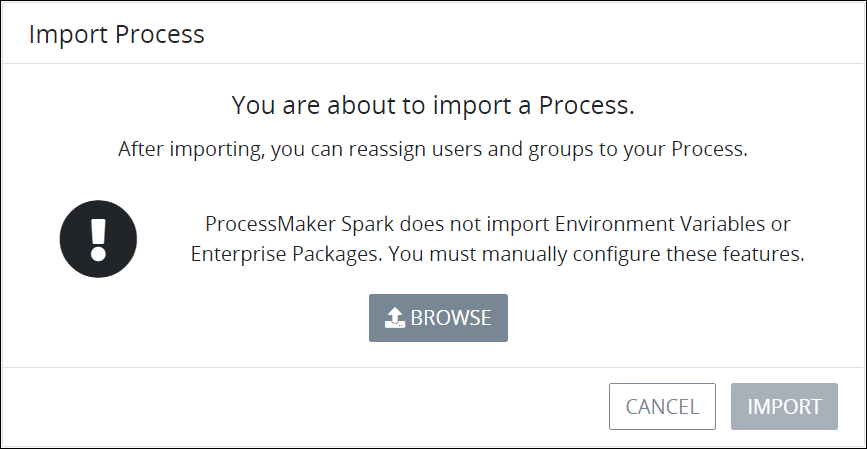
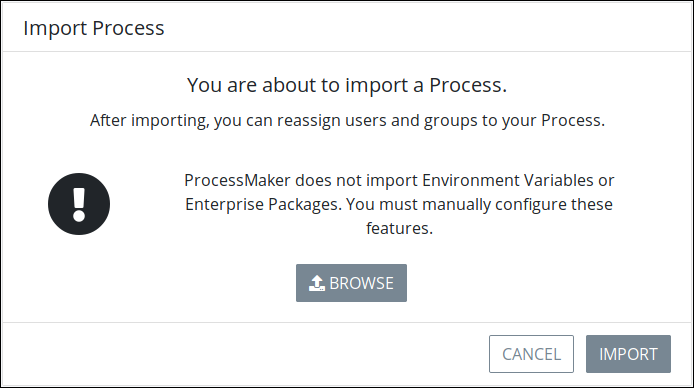
GitBook: [processmaker] 39 pages and one asset modified

diff --git a/designing-processes/process-design/model-your-process/add-and-configure-pool-and-lane-elements.md b/designing-processes/process-design/model-your-process/add-and-configure-pool-and-lane-elements.md
@@ -15,8 +15,8 @@ See [Process Modeling Element Descriptions](process-modeling-element-description
 
 Your ProcessMaker user account or group membership must have the following permissions to add a Pool element to the Process model unless your user account has the **Make this user a Super Admin** setting selected:
 
-* Processes: View Processes
 * Processes: Edit Processes
+* Processes: View Processes
 
 See the [Process](../../../processmaker-administration/permission-descriptions-for-users-and-groups.md#processes) permissions or ask your ProcessMaker Administrator for assistance.
 {% endhint %}
@@ -49,8 +49,8 @@ If you accidentally delete a Pool element with other elements you want to keep, 
 {% hint style="info" %}
 Your ProcessMaker user account or group membership must have the following permissions to resize a Pool element to the Process model unless your user account has the **Make this user a Super Admin** setting selected:
 
-* Processes: View Processes
 * Processes: Edit Processes
+* Processes: View Processes
 
 See the [Process](../../../processmaker-administration/permission-descriptions-for-users-and-groups.md#processes) permissions or ask your ProcessMaker Administrator for assistance.
 {% endhint %}
@@ -69,8 +69,8 @@ Follow these steps to resize a Pool element:
 {% hint style="info" %}
 Your ProcessMaker user account or group membership must have the following permissions to configure a Pool element unless your user account has the **Make this user a Super Admin** setting selected:
 
-* Processes: View Processes
 * Processes: Edit Processes
+* Processes: View Processes
 
 See the [Process](../../../processmaker-administration/permission-descriptions-for-users-and-groups.md#processes) permissions or ask your ProcessMaker Administrator for assistance.
 {% endhint %}
@@ -123,8 +123,8 @@ See [Process Modeling Element Descriptions](process-modeling-element-description
 
 Your ProcessMaker user account or group membership must have the following permissions to add a Lane element to a Pool element unless your user account has the **Make this user a Super Admin** setting selected:
 
-* Processes: View Processes
 * Processes: Edit Processes
+* Processes: View Processes
 
 See the [Process](../../../processmaker-administration/permission-descriptions-for-users-and-groups.md#processes) permissions or ask your ProcessMaker Administrator for assistance.
 {% endhint %}
@@ -147,8 +147,8 @@ Follow these steps to add a Lane element to a Pool element:
 {% hint style="info" %}
 Your ProcessMaker user account or group membership must have the following permissions to resize a Lane element to the Process model unless your user account has the **Make this user a Super Admin** setting selected:
 
-* Processes: View Processes
 * Processes: Edit Processes
+* Processes: View Processes
 
 See the [Process](../../../processmaker-administration/permission-descriptions-for-users-and-groups.md#processes) permissions or ask your ProcessMaker Administrator for assistance.
 {% endhint %}
@@ -167,8 +167,8 @@ Follow these steps to resize a Lane element:
 {% hint style="info" %}
 Your ProcessMaker user account or group membership must have the following permissions to configure a Lane element unless your user account has the **Make this user a Super Admin** setting selected:
 
-* Processes: View Processes
 * Processes: Edit Processes
+* Processes: View Processes
 
 See the [Process](../../../processmaker-administration/permission-descriptions-for-users-and-groups.md#processes) permissions or ask your ProcessMaker Administrator for assistance.
 {% endhint %}

diff --git a/designing-processes/process-design/model-your-process/add-and-configure-text-annotation-elements.md b/designing-processes/process-design/model-your-process/add-and-configure-text-annotation-elements.md
@@ -17,8 +17,8 @@ See [Process Modeling Element Descriptions](process-modeling-element-description
 
 Your ProcessMaker user account or group membership must have the following permissions to add a Text Annotation element to the Process model unless your user account has the **Make this user a Super Admin** setting selected:
 
-* Processes: View Processes
 * Processes: Edit Processes
+* Processes: View Processes
 
 See the [Process](../../../processmaker-administration/permission-descriptions-for-users-and-groups.md#processes) permissions or ask your ProcessMaker Administrator for assistance.
 {% endhint %}
@@ -46,8 +46,8 @@ Moving a Text Annotation element has the following limitations in regards to the
 {% hint style="info" %}
 Your ProcessMaker user account or group membership must have the following permissions to configure a Text Annotation element unless your user account has the **Make this user a Super Admin** setting selected:
 
-* Processes: View Processes
 * Processes: Edit Processes
+* Processes: View Processes
 
 See the [Process](../../../processmaker-administration/permission-descriptions-for-users-and-groups.md#processes) permissions or ask your ProcessMaker Administrator for assistance.
 {% endhint %}
@@ -100,8 +100,8 @@ See [Process Modeling Element Descriptions](process-modeling-element-description
 
 Your ProcessMaker user account or group membership must have the following permissions to add an Association element to the Process model unless your user account has the **Make this user a Super Admin** setting selected:
 
-* Processes: View Processes
 * Processes: Edit Processes
+* Processes: View Processes
 
 See the [Process](../../../processmaker-administration/permission-descriptions-for-users-and-groups.md#processes) permissions or ask your ProcessMaker Administrator for assistance.
 {% endhint %}
@@ -127,8 +127,8 @@ Follow these steps to add an Association element to the Process model:
 {% hint style="info" %}
 Your ProcessMaker user account or group membership must have the following permissions to configure an Association element unless your user account has the **Make this user a Super Admin** setting selected:
 
-* Processes: View Processes
 * Processes: Edit Processes
+* Processes: View Processes
 
 See the [Process](../../../processmaker-administration/permission-descriptions-for-users-and-groups.md#processes) permissions or ask your ProcessMaker Administrator for assistance.
 {% endhint %}

diff --git a/designing-processes/viewing-processes/view-the-list-of-processes/import-a-bpmn-compliant-process.md b/designing-processes/viewing-processes/view-the-list-of-processes/import-a-bpmn-compliant-process.md
@@ -35,7 +35,7 @@ See the ProcessMaker [Processes](../../../processmaker-administration/permission
 Follow these steps to import a validated ProcessMaker version 4 Process:
 
 1. [View your active Processes.](./#view-your-processes) The **Processes** tab displays.
-2. Click the **Import** button. The following message displays: **You are about to import a Process. User assignments and sensitive environment variables will not be imported.**  
+2. Click the **Import** button. The following message displays: **You are about to import a Process. After importing, you can reassign users and groups to your process.**
 
    ![](../../../.gitbook/assets/import-process-message-processes.png)
 
@@ -68,7 +68,7 @@ Follow these steps to import a validated ProcessMaker version 4 Process:
    * **Assign which ProcessMaker user\(s\) and/or group\(s\) can edit Request data**
 
      Assign which ProcessMaker user\(s\) or group\(s\) have permission to [edit Request data](../../../using-processmaker/requests/request-details/summary-for-completed-requests.md#editable-request-data) from this Process. By editing Request data, these users and group members can adjust the data that Request participants have submitted during a Request. If no users or groups are selected, no one can edit Request data from this Process. Type into the **Assign Edit Data** field to filter ProcessMaker users and/or groups that display in that field's drop-down menu. To remove a ProcessMaker user or group that is currently selected, click the![](../../../.gitbook/assets/remove-group-user-admin.png)icon for that selection or press `Enter` when the drop-down is visible.
-6. Click **Save**. The **Processes** page displays the imported Process with the same name as the original ProcessMaker Process except with a number "2" suffix.  
+6. Click **Save**. The **Processes** page displays the imported Process. If the process already exist with the same name, it is renamed with a number "2" suffix.  
 
    ![](../../../.gitbook/assets/imported-process-with-name-of-source-process-processes.png)
 

diff --git a/designing-processes/process-design/model-your-process/add-and-configure-script-task-elements.md b/designing-processes/process-design/model-your-process/add-and-configure-script-task-elements.md
@@ -15,8 +15,8 @@ See [Process Modeling Element Descriptions](process-modeling-element-description
 
 Your ProcessMaker user account or group membership must have the following permissions to add a Script Task element to the Process model unless your user account has the **Make this user a Super Admin** setting selected:
 
-* Processes: View Processes
 * Processes: Edit Processes
+* Processes: View Processes
 
 See the [Process](../../../processmaker-administration/permission-descriptions-for-users-and-groups.md#processes) permissions or ask your ProcessMaker Administrator for assistance.
 {% endhint %}
@@ -55,8 +55,8 @@ Moving a Script Task element has the following limitations in regards to the fol
 {% hint style="info" %}
 Your ProcessMaker user account or group membership must have the following permissions to configure a Script Task element unless your user account has the **Make this user a Super Admin** setting selected:
 
-* Processes: View Processes
 * Processes: Edit Processes
+* Processes: View Processes
 
 See the [Process](../../../processmaker-administration/permission-descriptions-for-users-and-groups.md#processes) permissions or ask your ProcessMaker Administrator for assistance.
 {% endhint %}
@@ -169,8 +169,8 @@ The Vocabularies package is not available in the ProcessMaker open-source editio
 
 Your ProcessMaker user account or group membership must have the following permissions to set which ProcessMaker user or group can start a Request for a Process unless your user account has the **Make this user a Super Admin** setting selected:
 
-* Processes: View Processes
 * Processes: Edit Processes
+* Processes: View Processes
 
 See the [Process](../../../processmaker-administration/permission-descriptions-for-users-and-groups.md#processes) permissions or ask your ProcessMaker Administrator for assistance.
 {% endhint %}

diff --git a/designing-processes/process-design/model-your-process/add-and-configure-sub-process-elements.md b/designing-processes/process-design/model-your-process/add-and-configure-sub-process-elements.md
@@ -15,8 +15,8 @@ See [Process Modeling Element Descriptions](process-modeling-element-description
 
 Your ProcessMaker user account or group membership must have the following permissions to add a Sub Process element to the Process model unless your user account has the **Make this user a Super Admin** setting selected:
 
-* Processes: View Processes
 * Processes: Edit Processes
+* Processes: View Processes
 
 See the [Process](../../../processmaker-administration/permission-descriptions-for-users-and-groups.md#processes) permissions or ask your ProcessMaker Administrator for assistance.
 {% endhint %}
@@ -56,8 +56,8 @@ Moving a Sub Process element has the following limitations in regards to the fol
 {% hint style="info" %}
 Your ProcessMaker user account or group membership must have the following permissions to configure a Sub Process element unless your user account has the **Make this user a Super Admin** setting selected:
 
-* Processes: View Processes
 * Processes: Edit Processes
+* Processes: View Processes
 
 See the [Process](../../../processmaker-administration/permission-descriptions-for-users-and-groups.md#processes) permissions or ask your ProcessMaker Administrator for assistance.
 {% endhint %}
@@ -119,8 +119,8 @@ The Vocabularies package is not available in the ProcessMaker open-source editio
 
 Your ProcessMaker user account or group membership must have the following permissions to set which ProcessMaker user or group can start a Request for a Process unless your user account has the **Make this user a Super Admin** setting selected:
 
-* Processes: View Processes
 * Processes: Edit Processes
+* Processes: View Processes
 
 See the [Process](../../../processmaker-administration/permission-descriptions-for-users-and-groups.md#processes) permissions or ask your ProcessMaker Administrator for assistance.
 {% endhint %}

diff --git a/designing-processes/process-design/model-your-process/add-and-configure-intermediate-message-catch-event-elements.md b/designing-processes/process-design/model-your-process/add-and-configure-intermediate-message-catch-event-elements.md
@@ -17,8 +17,8 @@ See [Process Modeling Element Descriptions](process-modeling-element-description
 
 Your ProcessMaker user account or group membership must have the following permissions to add an Intermediate Message Catch Event element to the Process model unless your user account has the **Make this user a Super Admin** setting selected:
 
-* Processes: View Processes
 * Processes: Edit Processes
+* Processes: View Processes
 
 See the [Process](../../../processmaker-administration/permission-descriptions-for-users-and-groups.md#processes) permissions or ask your ProcessMaker Administrator for assistance.
 {% endhint %}
@@ -47,8 +47,8 @@ Moving an Intermediate Message Catch Event element has the following limitations
 {% hint style="info" %}
 Your ProcessMaker user account or group membership must have the following permissions to configure an Intermediate Message Catch Event element unless your user account has the **Make this user a Super Admin** setting selected:
 
-* Processes: View Processes
 * Processes: Edit Processes
+* Processes: View Processes
 
 See the [Process](../../../processmaker-administration/permission-descriptions-for-users-and-groups.md#processes) permissions or ask your ProcessMaker Administrator for assistance.
 {% endhint %}

diff --git a/designing-processes/process-design/model-your-process/add-and-configure-intermediate-message-throw-event-elements.md b/designing-processes/process-design/model-your-process/add-and-configure-intermediate-message-throw-event-elements.md
@@ -17,8 +17,8 @@ See [Process Modeling Element Descriptions](process-modeling-element-description
 
 Your ProcessMaker user account or group membership must have the following permissions to add an Intermediate Message Throw Event element to the Process model unless your user account has the **Make this user a Super Admin** setting selected:
 
-* Processes: View Processes
 * Processes: Edit Processes
+* Processes: View Processes
 
 See the [Process](../../../processmaker-administration/permission-descriptions-for-users-and-groups.md#processes) permissions or ask your ProcessMaker Administrator for assistance.
 {% endhint %}
@@ -47,8 +47,8 @@ Moving an Intermediate Message Throw Event element has the following limitations
 {% hint style="info" %}
 Your ProcessMaker user account or group membership must have the following permissions to configure an Intermediate Message Throw Event element unless your user account has the **Make this user a Super Admin** setting selected:
 
-* Processes: View Processes
 * Processes: Edit Processes
+* Processes: View Processes
 
 See the [Process](../../../processmaker-administration/permission-descriptions-for-users-and-groups.md#processes) permissions or ask your ProcessMaker Administrator for assistance.
 {% endhint %}

diff --git a/designing-processes/process-design/model-your-process/add-and-configure-intermediate-timer-event-elements.md b/designing-processes/process-design/model-your-process/add-and-configure-intermediate-timer-event-elements.md
@@ -15,8 +15,8 @@ See [Process Modeling Element Descriptions](process-modeling-element-description
 
 Your ProcessMaker user account or group membership must have the following permissions to add an Intermediate Timer Event element to the Process model unless your user account has the **Make this user a Super Admin** setting selected:
 
-* Processes: View Processes
 * Processes: Edit Processes
+* Processes: View Processes
 
 See the [Process](../../../processmaker-administration/permission-descriptions-for-users-and-groups.md#processes) permissions or ask your ProcessMaker Administrator for assistance.
 {% endhint %}
@@ -47,8 +47,8 @@ Moving an Intermediate Timer Event element has the following limitations in rega
 {% hint style="info" %}
 Your ProcessMaker user account or group membership must have the following permissions to configure an Intermediate Timer Event element unless your user account has the **Make this user a Super Admin** setting selected:
 
-* Processes: View Processes
 * Processes: Edit Processes
+* Processes: View Processes
 
 See the [Process](../../../processmaker-administration/permission-descriptions-for-users-and-groups.md#processes) permissions or ask your ProcessMaker Administrator for assistance.
 {% endhint %}

diff --git a/designing-processes/process-design/model-your-process/add-and-configure-boundary-message-event-elements.md b/designing-processes/process-design/model-your-process/add-and-configure-boundary-message-event-elements.md
@@ -15,8 +15,8 @@ See [Process Modeling Element Descriptions](process-modeling-element-description
 
 Your ProcessMaker user account or group membership must have the following permissions to add a Boundary Message Event element to the Process model unless your user account has the **Make this user a Super Admin** setting selected:
 
-* Processes: View Processes
 * Processes: Edit Processes
+* Processes: View Processes
 
 See the [Process](../../../processmaker-administration/permission-descriptions-for-users-and-groups.md#processes) permissions or ask your ProcessMaker Administrator for assistance.
 {% endhint %}
@@ -40,8 +40,8 @@ After the element is placed into the Task-type element, you may drag the Boundar
 {% hint style="info" %}
 Your ProcessMaker user account or group membership must have the following permissions to configure a Boundary Message Event element unless your user account has the **Make this user a Super Admin** setting selected:
 
-* Processes: View Processes
 * Processes: Edit Processes
+* Processes: View Processes
 
 See the [Process](../../../processmaker-administration/permission-descriptions-for-users-and-groups.md#processes) permissions or ask your ProcessMaker Administrator for assistance.
 {% endhint %}

diff --git a/designing-processes/process-design/model-your-process/add-and-configure-boundary-error-event-elements.md b/designing-processes/process-design/model-your-process/add-and-configure-boundary-error-event-elements.md
@@ -15,8 +15,8 @@ See [Process Modeling Element Descriptions](process-modeling-element-description
 
 Your ProcessMaker user account or group membership must have the following permissions to add a Boundary Error Event element to the Process model unless your user account has the **Make this user a Super Admin** setting selected:
 
-* Processes: View Processes
 * Processes: Edit Processes
+* Processes: View Processes
 
 See the [Process](../../../processmaker-administration/permission-descriptions-for-users-and-groups.md#processes) permissions or ask your ProcessMaker Administrator for assistance.
 {% endhint %}
@@ -44,8 +44,8 @@ After the element is placed into the Task-type element, you may drag the Boundar
 {% hint style="info" %}
 Your ProcessMaker user account or group membership must have the following permissions to configure a Boundary Error Event element unless your user account has the **Make this user a Super Admin** setting selected:
 
-* Processes: View Processes
 * Processes: Edit Processes
+* Processes: View Processes
 
 See the [Process](../../../processmaker-administration/permission-descriptions-for-users-and-groups.md#processes) permissions or ask your ProcessMaker Administrator for assistance.
 {% endhint %}

diff --git a/designing-processes/process-design/model-your-process/add-and-configure-boundary-timer-event-elements.md b/designing-processes/process-design/model-your-process/add-and-configure-boundary-timer-event-elements.md
@@ -15,8 +15,8 @@ See [Process Modeling Element Descriptions](process-modeling-element-description
 
 Your ProcessMaker user account or group membership must have the following permissions to add a Boundary Timer Event element to the Process model unless your user account has the **Make this user a Super Admin** setting selected:
 
-* Processes: View Processes
 * Processes: Edit Processes
+* Processes: View Processes
 
 See the [Process](../../../processmaker-administration/permission-descriptions-for-users-and-groups.md#processes) permissions or ask your ProcessMaker Administrator for assistance.
 {% endhint %}
@@ -44,8 +44,8 @@ After the element is placed into the Task-type element, you may drag the Boundar
 {% hint style="info" %}
 Your ProcessMaker user account or group membership must have the following permissions to configure a Boundary Timer Event element unless your user account has the **Make this user a Super Admin** setting selected:
 
-* Processes: View Processes
 * Processes: Edit Processes
+* Processes: View Processes
 
 See the [Process](../../../processmaker-administration/permission-descriptions-for-users-and-groups.md#processes) permissions or ask your ProcessMaker Administrator for assistance.
 {% endhint %}

diff --git a/designing-processes/process-design/model-your-process/add-and-configure-event-based-gateway-elements.md b/designing-processes/process-design/model-your-process/add-and-configure-event-based-gateway-elements.md
@@ -15,8 +15,8 @@ See [Process Modeling Element Descriptions](process-modeling-element-description
 
 Your ProcessMaker user account or group membership must have the following permissions to add an Event-Based Gateway element to the Process model unless your user account has the **Make this user a Super Admin** setting selected:
 
-* Processes: View Processes
 * Processes: Edit Processes
+* Processes: View Processes
 
 See the [Process](../../../processmaker-administration/permission-descriptions-for-users-and-groups.md#processes) permissions or ask your ProcessMaker Administrator for assistance.
 {% endhint %}
@@ -45,8 +45,8 @@ Moving an Event-Based Gateway element has the following limitations in regards t
 {% hint style="info" %}
 Your ProcessMaker user account or group membership must have the following permissions to configure an Event-Based Gateway element unless your user account has the **Make this user a Super Admin** setting selected:
 
-* Processes: View Processes
 * Processes: Edit Processes
+* Processes: View Processes
 
 See the [Process](../../../processmaker-administration/permission-descriptions-for-users-and-groups.md#processes) permissions or ask your ProcessMaker Administrator for assistance.
 {% endhint %}
